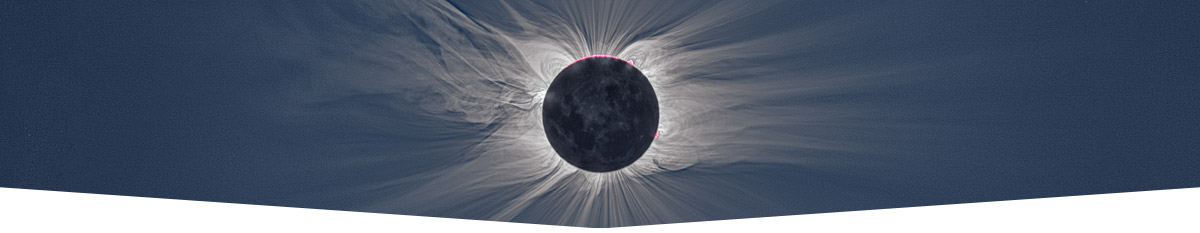
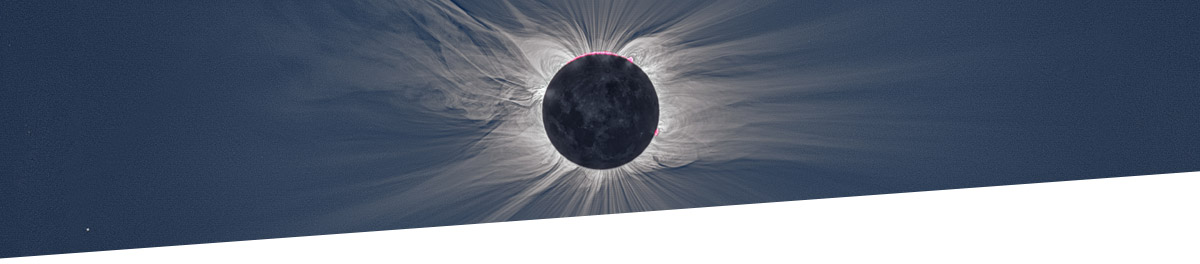
style(): new header and separator image

Changed region(s): [[0.0, 0.0, 1.0, 0.9914]]

diff --git a/README.md b/README.md
@@ -1,12 +1,12 @@
 ![Header](https://raw.githubusercontent.com/andrmoel/andrmoel/main/header.jpg "Header Top")
 
-<p align="center"><strong>technical lead @ doctari</strong></p>
+<p align="right"><strong>technical lead @ doctari</strong></p>
 
 ![Header](https://raw.githubusercontent.com/andrmoel/andrmoel/main/separator.jpg "Separator")
 
 my space junk
 
-🌞 www.polarlicht-vorhersage.de \
-🌘 www.polarlicht-archiv.de \
-⭐ www.eclipse-chaser-log.com \
-🪐 www.solar-eclipse.info
+- 🌞 www.polarlicht-vorhersage.de
+- 🌘 www.polarlicht-archiv.de
+- ⭐ www.eclipse-chaser-log.com
+- 🪐 www.solar-eclipse.info
